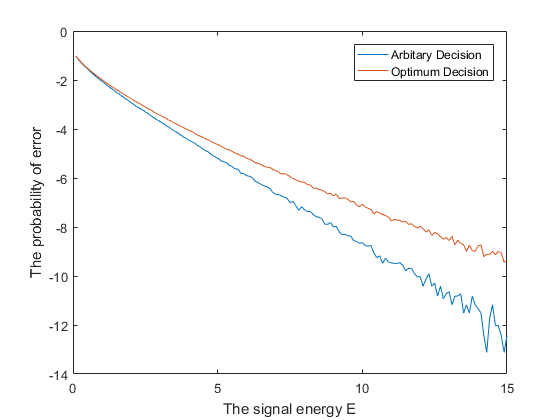
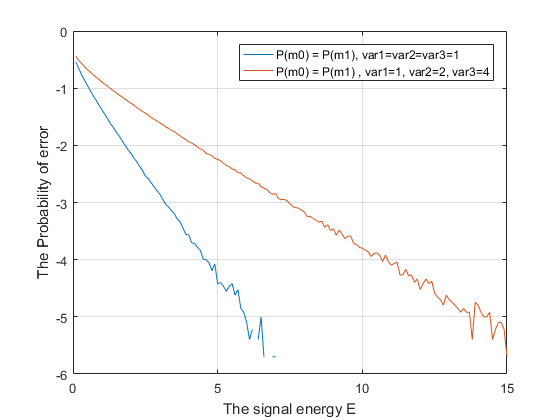
add new graph with log10

diff --git a/hc.m b/hc.m
@@ -1,0 +1,47 @@
+clear
+nmsg = 500000;
+nrcv = 3;
+m = rand(nmsg, 1);
+p0 = 0.5;
+p1 = 1 - p0;
+m(m < p0) = 0;
+m(m >= p0) = 1;
+mu = [0 0 0];
+%rho = [1 0 0; 0 1 0; 0 0 1];
+rho = [1 0.4 0.3; 0.4 1 0.4; 0.3 0.4 1];
+sigma = [1 0 0; 0 2 0; 0 0 4];
+for i = 1:nrcv
+    for j = 1:nrcv
+        if i ~= j
+            sigma(i, j) = rho(i, j) * sqrt(sigma(i, i)) * sqrt(sigma(j, j));
+        end
+    end
+end
+w = 2 * (rho(1,2)^2 + rho(1,3)^2 + rho(2,3)^2 - 2*rho(1,2)*rho(1,3)*rho(2,3) - 1);
+a = [rho(2,3)^2-1, rho(1,3)^2-1, rho(1,2)^2-1, rho(1,2)-rho(1,3)*rho(2,3), rho(1,3)-rho(1,2)*rho(2,3), rho(2,3) - rho(1,2)*rho(1,3)];
+N = mvnrnd(mu, sigma, nmsg);
+E = 0.1:0.1:15;
+s = zeros(nmsg, 1);
+R = zeros(nmsg, nrcv);
+m_hat = zeros(nmsg, 1);
+pe = zeros(1, 150);
+for i = 1:150
+    s(m == 0) = sqrt(E(i));
+    s(m == 1) = -sqrt(E(i));
+    sss = horzcat(s,s,s);
+    R = N + sss;
+    R = R';
+    thresh = 0;
+    r1 = R(1,:);
+    r2 = R(2,:);
+    r3 = R(3,:);
+    likely = r1 + r2 + r3;
+    %likely = zeros(nmsg, 1);
+    %for j = 1:nmsg
+    %    r = R(j,:);
+    %    likely(j) = r(1)*a(1) + r(2)*a(2) + r(3)*a(3) + (r(1)+r(2))*a(4) + (r(1)+r(3))*a(5) + (r(2)+r(3))*a(6);
+    %end
+    m_hat(likely >= thresh) = 0;
+    m_hat(likely < thresh) = 1;
+    pe(i) = (length(find(m ~= m_hat))/nmsg);
+end

diff --git a/fd.m b/fd.m
@@ -53,4 +53,4 @@ E = 0.1:0.1:15.0;
 plot(E,log(pe),E,log(pe2))
 xlabel('The signal energy E')
 ylabel('The probability of error')
-legend('Optimum Decision','Arbitrary Decision')
+legend('Arbitrary Decision','Optimum Decision')

diff --git a/fe.m b/fe.m
@@ -53,4 +53,4 @@ E = 0.1:0.1:15.0;
 plot(E,log(pe),E,log(pe2))
 xlabel('The signal energy E')
 ylabel('The probability of error')
-legend('Optimum Decision','Arbitrary Decision')
+legend('Arbitrary Decision','Optimum Decision')

diff --git a/c.m b/c.m
@@ -37,6 +37,7 @@ for E = 0.1:0.1:15.0
    count = count + 1;
 end
 E = 0.1:0.1:15.0;
-plot(E,log(pe))
+plot(E,log10(pe))
+grid on
 xlabel('The signal energy E')
 ylabel('log of the probability of error')
